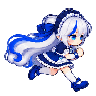
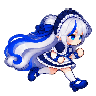
fix(runner): redraw Rin and Lize run arm phases
Add a twelve-pose arm swing guide, refresh the two weakest arm cycles, and regenerate their runtime atlases while preserving run timing.

Plan: 2026-10-26-running-action-redesign

Changed region(s): [[0.0312, 0.0625, 0.9688, 0.9688], [0.4062, 0.5, 0.4375, 0.5312]]

diff --git a/assets/character/locomotion/RUN_CYCLE_V3.md b/assets/character/locomotion/RUN_CYCLE_V3.md
@@ -4,10 +4,10 @@ These four transparent 4-column by 3-row source sheets replace the earlier eight
 
 | Character | Source sheet | Runtime prefix |
 | --- | --- | --- |
-| Aokumo Rin | `aokumo-rin-run-cycle-v4.png` | `run-00`–`run-11` |
+| Aokumo Rin | `aokumo-rin-run-cycle-v5.png` | `run-00`–`run-11` |
 | Shizuki Toa | `shizuki-toa-run-cycle-v3.png` | `goth-student-run-00`–`goth-student-run-11` |
 | Ayatsuno Yuni | `ayatsuno-yuni-run-cycle-v6.png` | `moonwing-run-00`–`moonwing-run-11` |
-| Akane Lize | `akane-lize-run-cycle-v4.png` | `akane-lize-run-00`–`akane-lize-run-11` |
+| Akane Lize | `akane-lize-run-cycle-v5.png` | `akane-lize-run-00`–`akane-lize-run-11` |
 
 ## Image generation brief
 
@@ -19,7 +19,9 @@ Yuni's `v4` motion still read as a small twitch because both boots occupied simi
 
 The `v5` crossover was visible but still read as walking: the torso stayed upright and the stride and knee lift were small. `ayatsuno-yuni-run-cycle-v6.png` uses Toa's `shizuki-toa-run-cycle-v3.png` as the mandatory twelve-pose action reference, while Yuni's portrait and idle sprite define her identity. The brief specified Toa's forward lean, high knee recovery, broad stride, pumping arms, and short flight phase, while keeping Yuni's horn, wings, and outfit. The atlas now uses `v6` with the same 768ms cycle and source alpha cleanup.
 
-Rin's `v3` had too many similar front-leg poses and a narrow stride hidden by her skirt. The built-in image generation tool produced `aokumo-rin-run-cycle-v4.png` with Toa's twelve-pose run as the motion reference and Rin's old run sheet, portrait, and idle frame as identity references. The prompt requested a forward lean, wider strides, high-knee recovery, alternating near/far shoes below the skirt, opposing arm drive, and a consistent foot baseline. The atlas uses `v4` and an alpha threshold of 64 to remove faint blue source residue. The earlier `v3` remains for comparison.
+Rin's `v3` had too many similar front-leg poses and a narrow stride hidden by her skirt. The built-in image generation tool produced `aokumo-rin-run-cycle-v4.png` with Toa's twelve-pose run as the motion reference and Rin's old run sheet, portrait, and idle frame as identity references. The prompt requested a forward lean, wider strides, high-knee recovery, alternating near/far shoes below the skirt, opposing arm drive, and a consistent foot baseline. The later Rin sheets use an alpha threshold of 64 to remove faint blue source residue. The earlier `v3` remains for comparison.
+
+The arm-motion follow-up used `arm-swing-pose-guide-v1.svg` (and its PNG rendering) to specify twelve near/far arm phases. Full-sheet and single-frame image-generation trials showed that same-colored sleeves can still collapse into a visually repeated pose. Rin `v5` was selected for its more distinct rear-hand-to-front-hand movement while retaining her `v4` leg cycle and costume; Lize `v5` was generated afresh from the pose guide and her portrait because editing `v4` kept both sleeves static. Compare key frames 00, 03, 06, and 09 at 96px when tuning these sheets. The source sheets and runtime atlases use the same twelve-frame, 768ms contract. Toa and Yuni retain their existing sheets because their arm changes remain readable at runtime size.
 
 ## Runtime preparation
 

diff --git a/.memory/phases/2026-10-26-running-action-redesign/P01-characters-and-entry/T02-runner-action-poses.md b/.memory/phases/2026-10-26-running-action-redesign/P01-characters-and-entry/T02-runner-action-poses.md
@@ -4,7 +4,7 @@
 
 ## Follow-up: natural run cycle
 
-- The first pass used four key poses and four independently generated in-between poses. A later follow-up replaced that run row for all four characters with cohesive twelve-pose source sheets (`assets/character/locomotion/*-run-cycle-v3.png`). Lize received a `v4` revision. Yuni's `v4` lacked a visible leg crossover, so a twelve-pose near/far leg guide was used to produce `v5`. That still read as walking; Yuni `v6` uses Toa's strong running poses as the action reference. Rin `v4` also uses Toa's running poses to make the leg crossover and knee drive visible below her skirt. Runtime frames are `run-00` through `run-11` at 96x96; the selector loops them in 768ms. Old source sheets remain as versioned reference assets. The future runner must use the twelve-frame atlas cycle.
+- The first pass used four key poses and four independently generated in-between poses. A later follow-up replaced that run row for all four characters with cohesive twelve-pose source sheets (`assets/character/locomotion/*-run-cycle-v3.png`). Lize received a `v4` revision. Yuni's `v4` lacked a visible leg crossover, so a twelve-pose near/far leg guide was used to produce `v5`. That still read as walking; Yuni `v6` uses Toa's strong running poses as the action reference. Rin `v4` also used Toa's running poses to make the leg crossover and knee drive visible below her skirt. The arm-motion follow-up adds `arm-swing-pose-guide-v1.svg` and selects Rin `v5` and Lize `v5` for clearer sleeve and fist changes over the twelve poses. Runtime frames are `run-00` through `run-11` at 96x96; the selector loops them in 768ms. Old source sheets remain as versioned reference assets. The future runner must use the twelve-frame atlas cycle.
 
 ## Goal
 
